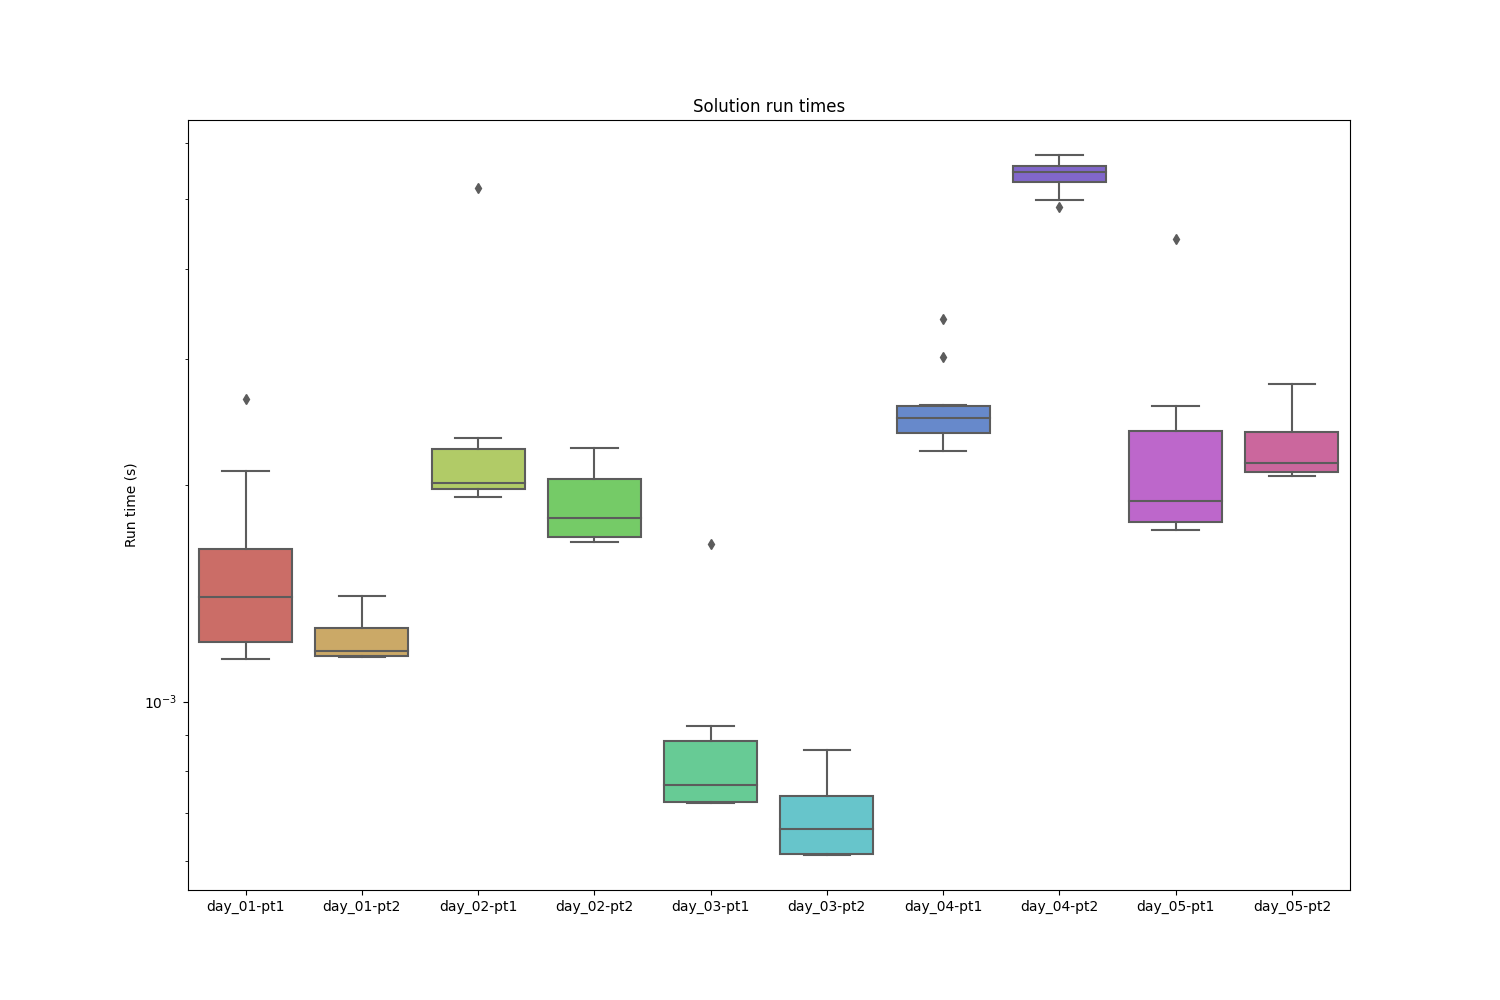
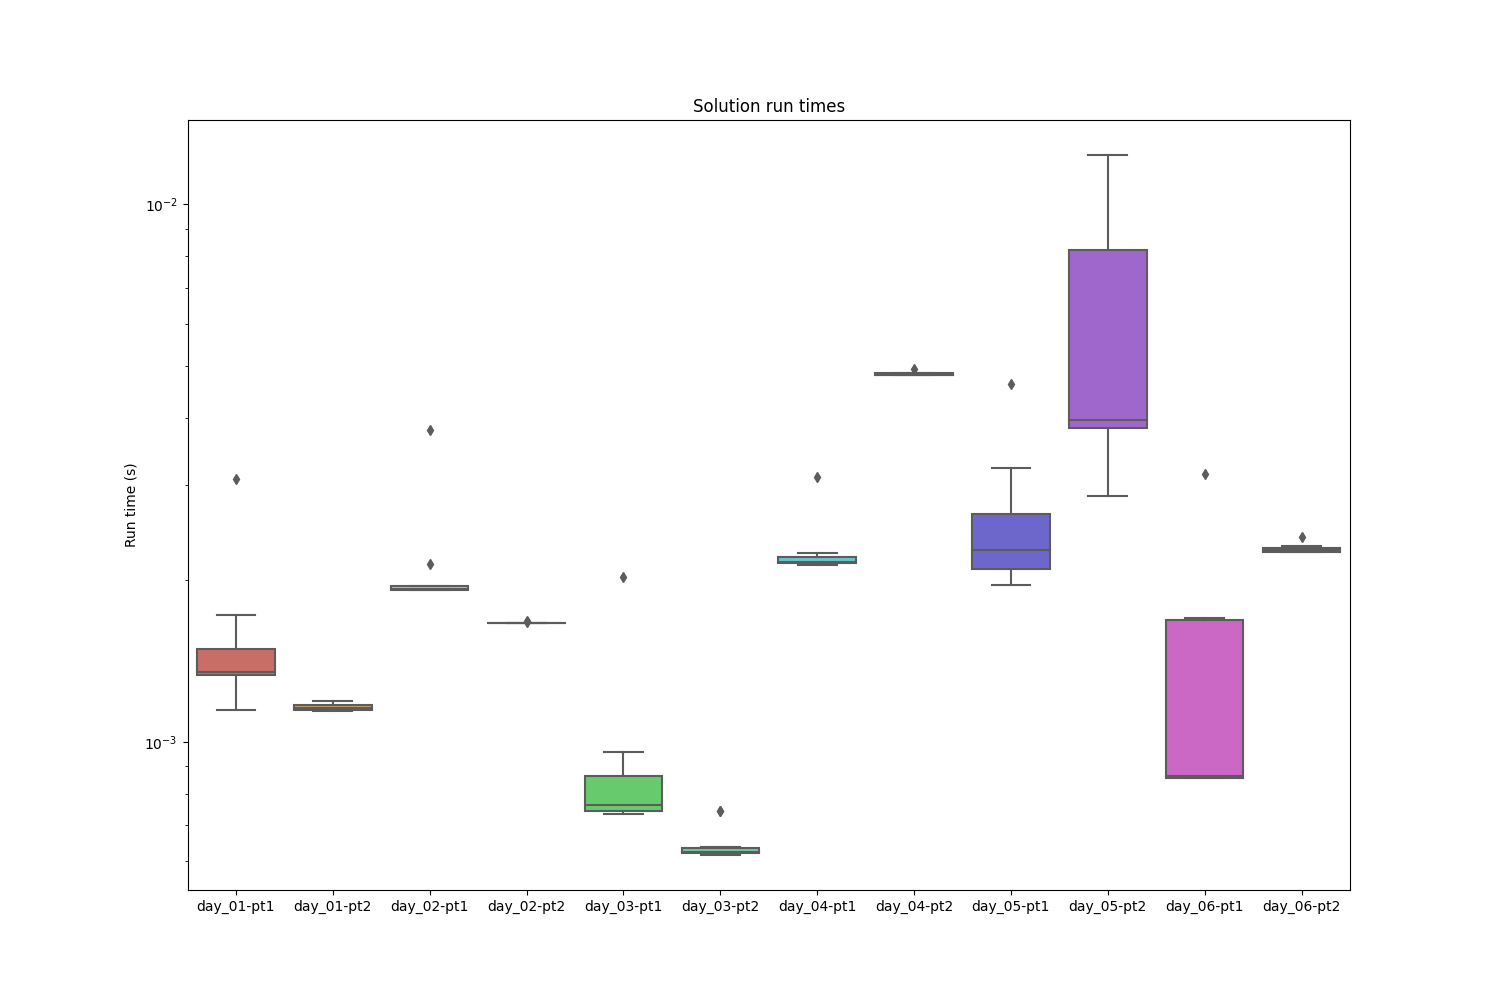
day 6

diff --git a/aoc/day_06.py b/aoc/day_06.py
@@ -1,0 +1,63 @@
+def start_of_packet_detection(datastream: str, n: int) -> int:
+    """
+    returns number of characters before the previous n characters are unique
+
+    Args:
+        datastream (str): string
+        n (int): number of characters to check are unique
+
+    Returns:
+        int: char count
+    """
+
+    i = 4
+    marker = set()
+
+    while len(marker) < n:
+        marker = set(datastream[i - n : i])
+        i += 1
+
+    return i - 1
+
+
+def part_one(file_path: str) -> int:
+    """
+    returns the number of characters needed to scan
+    before the previous 4 characters are all unique
+
+    Args:
+        file_path (str): filepath
+
+    Returns:
+        int: character count
+    """
+
+    # read file
+    with open(file_path) as f:
+        lines = f.readlines()
+
+    return [start_of_packet_detection(line, n=4) for line in lines]
+
+
+def part_two(file_path: str):
+    """
+    returns the number of characters needed to scan
+    before the previous 14 characters are all unique
+
+
+    Args:
+        file_path (str): filepath
+
+    Returns:
+        int: character count
+    """
+
+    with open(file_path) as f:
+        lines = f.readlines()
+
+    return [start_of_packet_detection(line, n=14) for line in lines]
+
+
+if __name__ == "__main__":
+    print(part_one("aoc/inputs/day_06.txt"))
+    print(part_two("aoc/inputs/day_06.txt"))

diff --git a/tests/test_day_06.py b/tests/test_day_06.py
@@ -1,0 +1,35 @@
+from aoc.day_06 import part_one, part_two, start_of_packet_detection
+import pytest
+
+
+def test_part_one():
+
+    test_file_path = "tests/test_inputs/test_day_06.txt"
+
+    assert part_one(test_file_path) == [5, 6, 10, 11]
+
+
+@pytest.mark.parametrize(
+    "datastream, expected, n",
+    [
+        ("bvwbjplbgvbhsrlpgdmjqwftvncz", 5, 4),
+        ("nppdvjthqldpwncqszvftbrmjlhg", 6, 4),
+        ("nznrnfrfntjfmvfwmzdfjlvtqnbhcprsg", 10, 4),
+        ("zcfzfwzzqfrljwzlrfnpqdbhtmscgvjw", 11, 4),
+        ("mjqjpqmgbljsphdztnvjfqwrcgsmlb", 19, 14),
+        ("bvwbjplbgvbhsrlpgdmjqwftvncz", 23, 14),
+        ("nppdvjthqldpwncqszvftbrmjlhg", 23, 14),
+        ("nznrnfrfntjfmvfwmzdfjlvtqnbhcprsg", 29, 14),
+        ("zcfzfwzzqfrljwzlrfnpqdbhtmscgvjw", 26, 14),
+    ],
+)
+def test_start_of_packet_detection(datastream, expected, n):
+
+    assert start_of_packet_detection(datastream, n) == expected
+
+
+def test_part_two():
+
+    test_file_path = "tests/test_inputs/test_day_06.txt"
+
+    assert part_two(test_file_path) == [23, 23, 29, 26]
